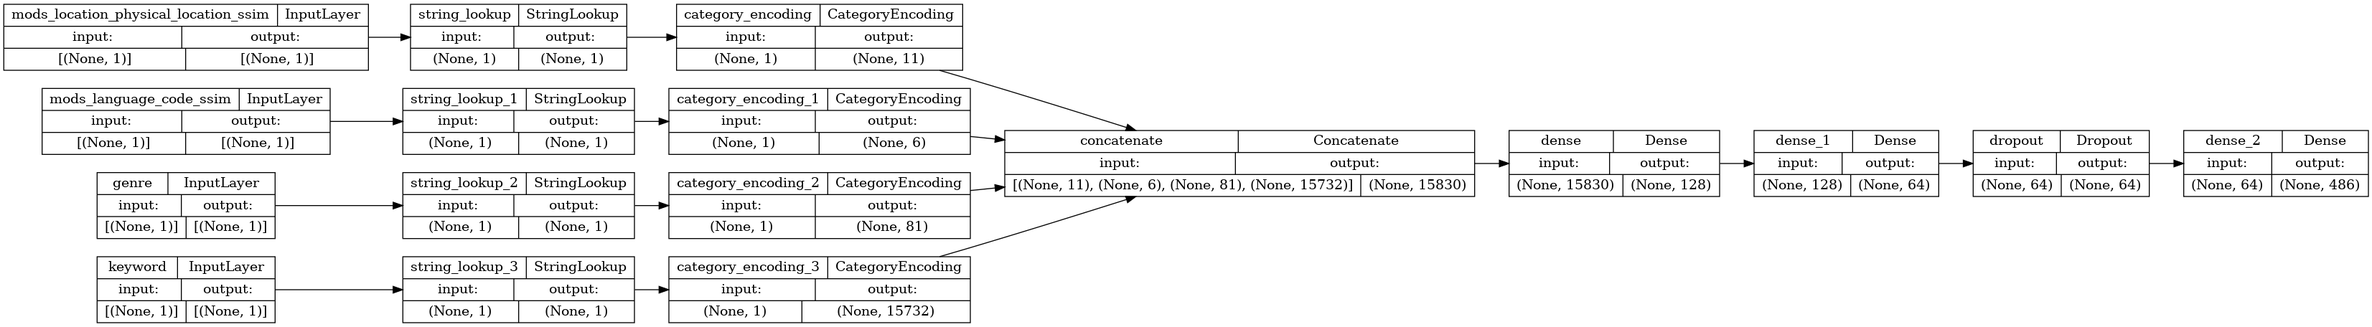
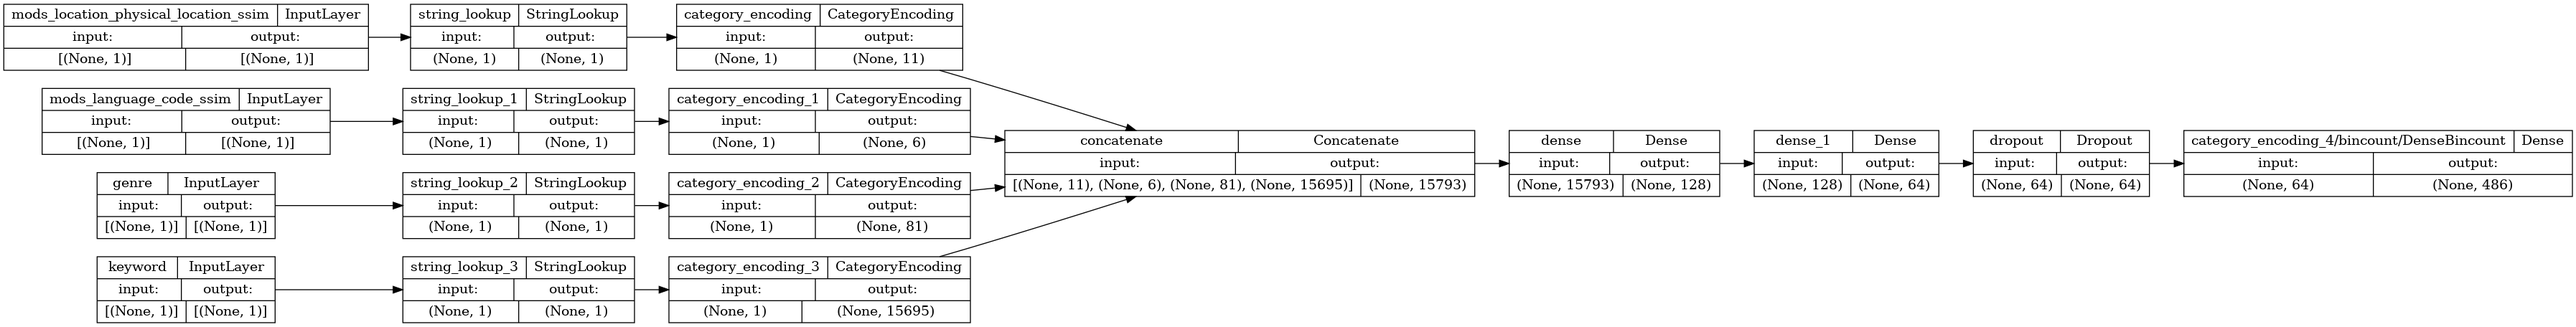
started methodically logging from beginning

diff --git a/data_clean.py b/data_clean.py
@@ -210,7 +210,11 @@ def compile_model(all_inputs, encoded_features, categorical_label_column, num_cl
     x = tf.keras.layers.Dense(128, activation="relu")(all_features)
     x = tf.keras.layers.Dense(64, activation="relu")(x)
     x = tf.keras.layers.Dropout(0.1)(x)
-    output = tf.keras.layers.Dense(num_classes, activation='softmax', name=categorical_label_column)(x)
+    useable_name = categorical_label_column.name.split(':')[0]
+    # print('-='*50)
+    # print('useable_name:')
+    # print(useable_name)
+    output = tf.keras.layers.Dense(num_classes, activation='softmax', name=useable_name)(x)
 
     model = tf.keras.Model(all_inputs, output)
 
@@ -230,28 +234,32 @@ def train_model(model, train_ds, val_ds, test_ds, num_classes, epochs=10):
     exit=False
     # Check if the target labels are already one-hot encoded
     train_labels = train_ds.map(lambda x, y: y)
-    if train_labels.element_spec.shape[-1] == num_classes:
-        log.debug('Labels are already one-hot encoded')
-    else:
-        log.debug('Train Labels are not one-hot encoded')
-        exit=True
+    # log.debug( f'train_labels.element_spec.shape, ``{train_labels.element_spec.shape}``' )
+    # log.debug( f'train_labels.element_spec, ``{train_labels.element_spec}``' )
+    # if train_labels.element_spec.shape[-1] == num_classes:
+    #     log.debug('Labels are already one-hot encoded')
+    # else:
+    #     log.debug('Train Labels are not one-hot encoded')
+    #     log.debug( f'train_labels.element_spec.shape[-1], ``{train_labels.element_spec.shape[-1]}``' )
+    #     log.debug( f'num_classes, ``{num_classes}``' )
+    #     exit=True
 
-    val_labels = val_ds.map(lambda x, y: y)
-    if val_labels.element_spec.shape[-1] == num_classes:
-        log.debug('Labels are already one-hot encoded')
-    else:
-        log.debug('Val Labels are not one-hot encoded')
-        exit=True
+    # val_labels = val_ds.map(lambda x, y: y)
+    # if val_labels.element_spec.shape[-1] == num_classes:
+    #     log.debug('Labels are already one-hot encoded')
+    # else:
+    #     log.debug('Val Labels are not one-hot encoded')
+    #     exit=True
 
-    test_labels = test_ds.map(lambda x, y: y)
-    if test_labels.element_spec.shape[-1] == num_classes:
-        log.debug('Labels are already one-hot encoded')
-    else:
-        log.debug('Test Labels are not one-hot encoded')
-        exit=True
+    # test_labels = test_ds.map(lambda x, y: y)
+    # if test_labels.element_spec.shape[-1] == num_classes:
+    #     log.debug('Labels are already one-hot encoded')
+    # else:
+    #     log.debug('Test Labels are not one-hot encoded')
+    #     exit=True
 
-    if exit:
-        raise Exception('Labels are not one-hot encoded')
+    # if exit:
+    #     raise Exception('Labels are not one-hot encoded')
 
     model.fit(train_ds, validation_data=val_ds, epochs=epochs)
     log.debug( 'training complete' )
@@ -260,7 +268,53 @@ def train_model(model, train_ds, val_ds, test_ds, num_classes, epochs=10):
     print("Loss", loss)
     return model
     
-
+def inspect_dataset(dataset):
+    # Logs various aspects of a dataset to allow for inspection and debugging
+    print('=-=-=-=-=-=-=-=-=-=-=-=')
+    print('Inspecting dataset:')
+    print('=-=-=-=-=-=-=-=-=-=-=-=')
+    print(f'dataset type: {type(dataset)}')
+    print(f'dataset element_spec: {dataset.element_spec}')
+    print(f'dataset element_spec type: {type(dataset.element_spec)}')
+    print(f'dataset element_spec[0] type: {type(dataset.element_spec[0])}')
+    print(f'dataset element_spec[0] shape: {dataset.element_spec[0].shape}')
+    print(f'dataset element_spec[0] dtype: {dataset.element_spec[0].dtype}')
+    print(f'dataset element_spec[1] type: {type(dataset.element_spec[1])}')
+    print(f'dataset element_spec[1] shape: {dataset.element_spec[1].shape}')
+    print(f'dataset element_spec[1] dtype: {dataset.element_spec[1].dtype}')
+    print('=-=-=-=-=-=-=-=-=-=-=-=')
+    print('Inspecting dataset element:')
+    print('=-=-=-=-=-=-=-=-=-=-=-=')
+    for element in dataset.take(1):
+        print(f'element type: {type(element)}')
+        print(f'element[0] type: {type(element[0])}')
+        print(f'element[0] shape: {element[0].shape}')
+        print(f'element[0] dtype: {element[0].dtype}')
+        print(f'element[1] type: {type(element[1])}')
+        print(f'element[1] shape: {element[1].shape}')
+        print(f'element[1] dtype: {element[1].dtype}')
+        print('=-=-=-=-=-=-=-=-=-=-=-=')
+        print('Inspecting element[0]:')
+        print('=-=-=-=-=-=-=-=-=-=-=-=')
+        print(f'element[0] type: {type(element[0])}')
+        print(f'element[0] shape: {element[0].shape}')
+        print(f'element[0] dtype: {element[0].dtype}')
+        print(f'element[0] value: {element[0]}')
+        print('=-=-=-=-=-=-=-=-=-=-=-=')
+        print('Inspecting element[1]:')
+        print('=-=-=-=-=-=-=-=-=-=-=-=')
+        print(f'element[1] type: {type(element[1])}')
+        print(f'element[1] shape: {element[1].shape}')
+        print(f'element[1] dtype: {element[1].dtype}')
+        print(f'element[1] value: {element[1]}')
+        print('=-=-=-=-=-=-=-=-=-=-=-=')
+        print('Inspecting element[0][0]:')
+        print('=-=-=-=-=-=-=-=-=-=-=-=')
+        print(f'element[0][0] type: {type(element[0][0])}')
+        print(f'element[0][0] shape: {element[0][0].shape}')
+        print(f'element[0][0] dtype: {element[0][0].dtype}')
+        print(f'element[0][0] value: {element[0][0]}')
+        print('=-=-=-=-=-=-=-=-=-=-=-=')
 
 
 ## -=-=-=-=-=-=-=-=-=-=-=-=-=-=-=-=-=-=-=-=-=-=-=-=-=-=-=-=-=-=-=-=-=-=-=-=-=-=-=-=-=-=-=-=-=-=-=-=-=-=-=-=-=-=-=-=-=-=-=-
@@ -278,6 +332,14 @@ def manager():
     '''
     df = load_data()
 
+    # log.debug( 'data loaded' )
+    # log.debug( f'df.shape, ``{df.shape}``' )
+    # log.debug(f'df.head(), ``{df.head()}``')
+    # # log every value in the first row of the dataframe
+    # for key, value in df.iloc[0].items():
+    #     log.debug( f'key, ``{key}``; value, ``{value}``' )
+    
+
     '''
     create a copy of the dataframe with only the columns we want to use
     This is a small subset of the columns in the original dataframe
@@ -285,6 +347,14 @@ def manager():
     '''
     df = df[['pid','genre','keyword', 'mods_location_physical_location_ssim', 'mods_language_code_ssim', 'mods_subject_broad_theme_ssim']]
 
+    # log.debug( '\n\n\ncolumns selected' )
+    # log.debug( f'df.shape, ``{df.shape}``' )
+    # log.debug(f'df.head(), ``{df.head()}``')
+    # # log every value in the first row of the dataframe
+    # for key, value in df.iloc[0].items():
+    #     log.debug( f'key, ``{key}``; value, ``{value}``' )
+
+  
 
     '''
     Drop rows with no values in the mods_subject_broad_theme_ssim column
@@ -297,6 +367,14 @@ def manager():
 
     assert type(df['mods_subject_broad_theme_ssim'].iloc[73]) == list, type(df['mods_subject_broad_theme_ssim'].iloc[73])
 
+    log.debug( '\n\n\nrows dropped' )
+    log.debug( f'df.shape, ``{df.shape}``' )
+    log.debug(f'df.head(), ``{df.head()}``')
+    # log every value in the first row of the dataframe
+    for key, value in df.iloc[0].items():
+        log.debug( f'key, ``{key}``; value, ``{value}``' )
+
+    sys.exit()
     '''
     The next few steps are to convert the values in the dataframe into the format we want to use for training the model
     Ultimately, the values in the columns need to be converted into numeric values
@@ -357,6 +435,7 @@ def manager():
         message = f'Unable to complete train_val_test_split: {e}'
         raise Exception(message)
 
+
     '''
     We convert the dataframes into tf.data.Datasets so they can be used to train the model with TensorFlow
     '''
@@ -368,6 +447,9 @@ def manager():
         message = f'Unable to complete dfs_to_datasets: {e}'
         raise Exception(message)
     
+    log.debug( 'Datasets created' )
+    inspect_dataset(train_ds)
+
     '''
     Now we need to convert the categorical columns into numeric values by encoding them as one-hot vectors
     This means that each value in the column will be broken out into its own column,
@@ -448,6 +530,7 @@ def manager():
     # print('First encoded label:')
     # # Need to find the right syntax for this
 
+    inspect_dataset(train_ds)
 
     # Compile the model
     model = compile_model(all_inputs, encoded_features, encoded_categorical_label_column, num_classes=num_unique_themes)
